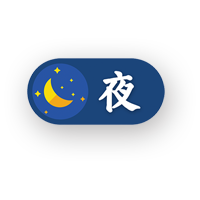
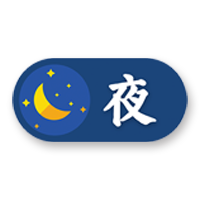
图标

diff --git a/home.html b/home.html
@@ -26,15 +26,17 @@
             left: 20px;
         }
         .mode-button {
-            width: 160px;
+            width: 120px;
             height: 120px;
             background-size: contain;
             background-repeat: no-repeat;
             background-position: center;
             border: none;
             cursor: pointer;
-            margin: 0 5px;
+            margin: 0; /* 去掉外边距 */
             transition: transform 0.3s;
+            background-color: transparent; /* 确保背景透明 */
+            outline: none; /* 去掉按钮选中的边框 */
         }
         .mode-button:hover {
             transform: scale(1.1);
